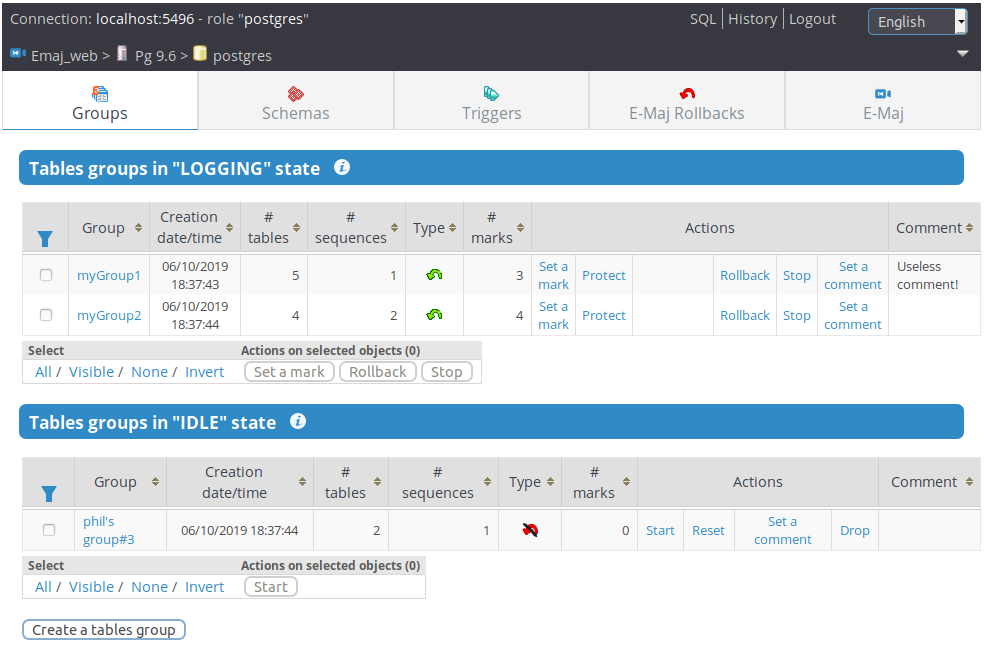
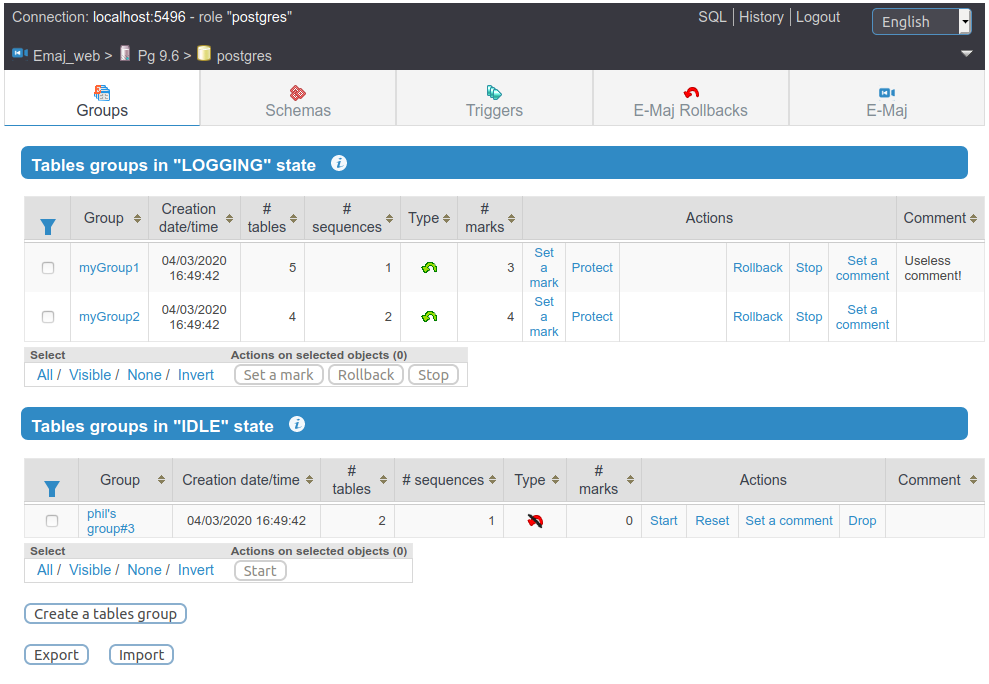
Tag the documentation and adjust the tar.index file to prepare the new coming version .

diff --git a/docs/en/conf.py b/docs/en/conf.py
@@ -54,9 +54,9 @@ author = u'Philippe Beaudoin'
 # built documents.
 #
 # The short X.Y version.
-version = u'3.2'
+version = u'3.3'
 # The full version, including alpha/beta/rc tags.
-release = u'3.2.0'
+release = u'3.3.0'
 
 # The language for content autogenerated by Sphinx. Refer to documentation
 # for a list of supported languages.

diff --git a/docs/fr/conf.py b/docs/fr/conf.py
@@ -54,9 +54,9 @@ author = u'Philippe Beaudoin'
 # built documents.
 #
 # The short X.Y version.
-version = u'3.2'
+version = u'3.3'
 # The full version, including alpha/beta/rc tags.
-release = u'3.2.0'
+release = u'3.3.0'
 
 # The language for content autogenerated by Sphinx. Refer to documentation
 # for a list of supported languages.

diff --git a/docs/fr/rollbackMonitorClient.rst b/docs/fr/rollbackMonitorClient.rst
@@ -64,17 +64,17 @@ affichera une seule fois la liste des opérations de rollback en cours et celle 
 
 Exemple d'affichage de l'outil ::
 
-    E-Maj (version 2.2.0) - Monitoring rollbacks activity
+    E-Maj (version 3.3.0) - Monitoring rollbacks activity
    ---------------------------------------------------------------
-   04/02/2018 - 12:07:17
-   ** rollback 34 started at 2018-02-04 12:06:20.350962+02 for groups {myGroup1,myGroup2}
-      status: COMMITTED ; ended at 2018-02-04 12:06:21.149111+02 
-   ** rollback 35 started at 2018-02-04 12:06:21.474217+02 for groups {myGroup1}
-      status: COMMITTED ; ended at 2018-02-04 12:06:21.787615+02 
-   -> rollback 36 started at 2018-02-04 12:04:31.769992+02 for groups {group1232}
+   04/02/2020 - 12:07:17
+   ** rollback 34 started at 2020-02-04 12:06:20.350962+02 for groups {myGroup1,myGroup2}
+      status: COMMITTED ; ended at 2020-02-04 12:06:21.149111+02 
+   ** rollback 35 started at 2020-02-04 12:06:21.474217+02 for groups {myGroup1}
+      status: COMMITTED ; ended at 2020-02-04 12:06:21.787615+02 
+   -> rollback 36 started at 2020-02-04 12:04:31.769992+02 for groups {group1232}
       status: EXECUTING ; completion 89 % ; 00:00:20 remaining
-   -> rollback 37 started at 2018-02-04 12:04:21.894546+02 for groups {group1233}
+   -> rollback 37 started at 2020-02-04 12:04:21.894546+02 for groups {group1233}
       status: LOCKING ; completion 0 % ; 00:22:20 remaining
-   -> rollback 38 started at 2018-02-04 12:05:21.900311+02 for groups {group1234}
+   -> rollback 38 started at 2020-02-04 12:05:21.900311+02 for groups {group1234}
       status: PLANNING ; completion 0 %
 

diff --git a/docs/en/rollbackMonitorClient.rst b/docs/en/rollbackMonitorClient.rst
@@ -62,17 +62,17 @@ displays only once the list of in progress rollback operations and the list of a
 
 Example of display::
 
-    E-Maj (version 2.2.0) - Monitoring rollbacks activity
+    E-Maj (version 3.3.0) - Monitoring rollbacks activity
    ---------------------------------------------------------------
-   04/02/2018 - 12:07:17
-   ** rollback 34 started at 2018-02-04 12:06:20.350962+02 for groups {myGroup1,myGroup2}
-      status: COMMITTED ; ended at 2018-02-04 12:06:21.149111+02 
-   ** rollback 35 started at 2018-02-04 12:06:21.474217+02 for groups {myGroup1}
-      status: COMMITTED ; ended at 2018-02-04 12:06:21.787615+02 
-   -> rollback 36 started at 2018-02-04 12:04:31.769992+02 for groups {group1232}
+   04/02/2020 - 12:07:17
+   ** rollback 34 started at 2020-02-04 12:06:20.350962+02 for groups {myGroup1,myGroup2}
+      status: COMMITTED ; ended at 2020-02-04 12:06:21.149111+02 
+   ** rollback 35 started at 2020-02-04 12:06:21.474217+02 for groups {myGroup1}
+      status: COMMITTED ; ended at 2020-02-04 12:06:21.787615+02 
+   -> rollback 36 started at 2020-02-04 12:04:31.769992+02 for groups {group1232}
       status: EXECUTING ; completion 89 % ; 00:00:20 remaining
-   -> rollback 37 started at 2018-02-04 12:04:21.894546+02 for groups {group1233}
+   -> rollback 37 started at 2020-02-04 12:04:21.894546+02 for groups {group1233}
       status: LOCKING ; completion 0 % ; 00:22:20 remaining
-   -> rollback 38 started at 2018-02-04 12:05:21.900311+02 for groups {group1234}
+   -> rollback 38 started at 2020-02-04 12:05:21.900311+02 for groups {group1234}
       status: PLANNING ; completion 0 %
 

diff --git a/docs/fr/upgrade.rst b/docs/fr/upgrade.rst
@@ -39,7 +39,7 @@ La configuration complète des groupes de tables existants ainsi que les paramè
    
    SELECT emaj.emaj_export_parameters_configuration('<chemin.fichier.2>');
 
-Si la version E-Maj installée est antérieure à <devel>, ces fonctions ne sont pas disponibles. Il faut alors sauvegarder manuellement le contenu des tables techniques *emaj_group_def* et *emaj_param*. On peut par exemple décharger chacune de ces tables sur des fichiers par des commandes *copy*. On peut aussi les dupliquer en dehors du schéma *emaj*.
+Si la version E-Maj installée est antérieure à 3.3.0, ces fonctions ne sont pas disponibles. Il faut alors sauvegarder manuellement le contenu des tables techniques *emaj_group_def* et *emaj_param*. On peut par exemple décharger chacune de ces tables sur des fichiers par des commandes *copy*. On peut aussi les dupliquer en dehors du schéma *emaj*.
 
 Si la version courante d’E-Maj contient la fonction *emaj_sync_def_group()* (3.2+), il est prudent d'utiliser cette fonction pour synchroniser d’abord la table *emaj_group_def* avec la configuration actuelle des groupes créés.
 

diff --git a/docs/fr/webUsage.rst b/docs/fr/webUsage.rst
@@ -43,6 +43,8 @@ Pour chaque groupe de tables créé, sont affichés les attributs suivants :
 
 Pour chaque groupe également, plusieurs boutons sont proposés afin de pouvoir effectuer les actions que son état autorise.
 
+Trois boutons en bas de page permettent de créer un nouveau groupe de tables, d’exporter ou d’importer une configuration de groupes de tables vers ou à partir d’un fichier local.
+
 
 Quelques détails de l'interface utilisateur
 -------------------------------------------
@@ -210,6 +212,8 @@ Sont d'abord restitués :
 Puis l'intégrité de l'environnement est testé ; le résultat de l'exécution de la fonction :ref:`emaj_verify_all() <emaj_verify_all>` est affiché.
 
 Enfin sont listés les paramètres de fonctionnement de l’extension emaj, qu’ils soient présents dans la table *emaj_param* ou valorisés par défaut.
+
+Deux boutons en bas de page permettent d’exporter ou d’importer une configuration de paramètres vers ou à partir d’un fichier local.
 
 .. figure:: images/emajweb_emaj.png
    :align: center

diff --git a/docs/fr/content.rst b/docs/fr/content.rst
@@ -10,6 +10,8 @@ Après :doc:`installation <install>`, une version d’E-Maj contient les fichier
 +---------------------------------------------+---------------------------------------------------------------------+
 | sql/emaj-<version>.sql                      | script psql alternatif d’installation                               |
 +---------------------------------------------+---------------------------------------------------------------------+
+| sql/emaj--3.2.0--3.3.0.sql                  | script d’upgrade de l’extension de 3.2.0 vers 3.3.0                 |
++---------------------------------------------+---------------------------------------------------------------------+
 | sql/emaj--3.1.0--3.2.0.sql                  | script d’upgrade de l’extension de 3.1.0 vers 3.2.0                 |
 +---------------------------------------------+---------------------------------------------------------------------+
 | sql/emaj--3.0.0--3.1.0.sql                  | script d’upgrade de l’extension de 3.0.0 vers 3.1.0                 |

diff --git a/docs/en/content.rst b/docs/en/content.rst
@@ -10,6 +10,8 @@ Once :doc:`installed <install>`, an E-Maj version contents the following files.
 +---------------------------------------------+---------------------------------------------------------------------+
 | sql/emaj-<version>.sql                      | alternate psql installation script                                  |
 +---------------------------------------------+---------------------------------------------------------------------+
+| sql/emaj--3.2.0--3.3.0.sql                  | extension upgrade script from 3.2.0 to 3.3.0                        |
++---------------------------------------------+---------------------------------------------------------------------+
 | sql/emaj--3.1.0--3.2.0.sql                  | extension upgrade script from 3.1.0 to 3.2.0                        |
 +---------------------------------------------+---------------------------------------------------------------------+
 | sql/emaj--3.0.0--3.1.0.sql                  | extension upgrade script from 3.0.0 to 3.1.0                        |

diff --git a/docs/en/upgrade.rst b/docs/en/upgrade.rst
@@ -39,7 +39,7 @@ The full existing tables groups configuration, as well as E-Maj parameters, can 
 
    SELECT emaj.emaj_export_parameters_configuration('<file.path.2>');
 
-If the installed E-Maj version is prior <devel>, these functions are not available. Thus, the *emaj_group_def* and *emaj_param* terchnical tables must be manually saved. For instance, one can download each table on file with a copy command, or duplicate them ouside the *emaj*  schema.
+If the installed E-Maj version is prior 3.3.0, these functions are not available. Thus, the *emaj_group_def* and *emaj_param* terchnical tables must be manually saved. For instance, one can download each table on file with a copy command, or duplicate them ouside the *emaj*  schema.
 
 Il the current E-Maj version contains the *emaj_sync_def_group()* function (3.2+), it is recommended to use it to previously synchronize the *emaj_group_def* table with the current groups structure.
 

diff --git a/docs/en/webUsage.rst b/docs/en/webUsage.rst
@@ -43,6 +43,7 @@ For each created tables group, the following attributes are displayed:
 
 For each tables group, several buttons are available so that the user can perform any possible action, depending on the group state.
 
+At the bottom of the page, three buttons allow to create a new tables group, to export or import a tables groups configuration to or from a local file.
 
 Some details about the user interface
 -------------------------------------
@@ -211,6 +212,8 @@ First, some items are displayed:
 Then, the environment integrity is checked; the result of the :ref:`emaj_verify_all() <emaj_verify_all>` function execution is displayed.
 
 The page ends with a list of the extension parameters value, be they present in the *emaj_param table* or set to their default value.
+
+Two buttons allow to export and import parameters configurations to or from a local file.
 
 .. figure:: images/emajweb_emaj.png
    :align: center
